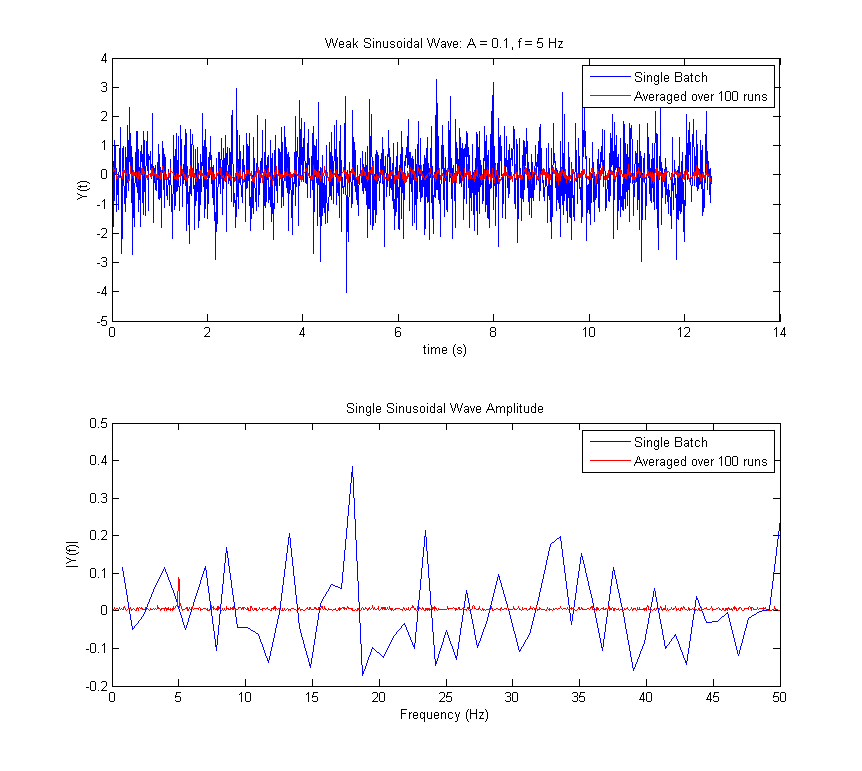
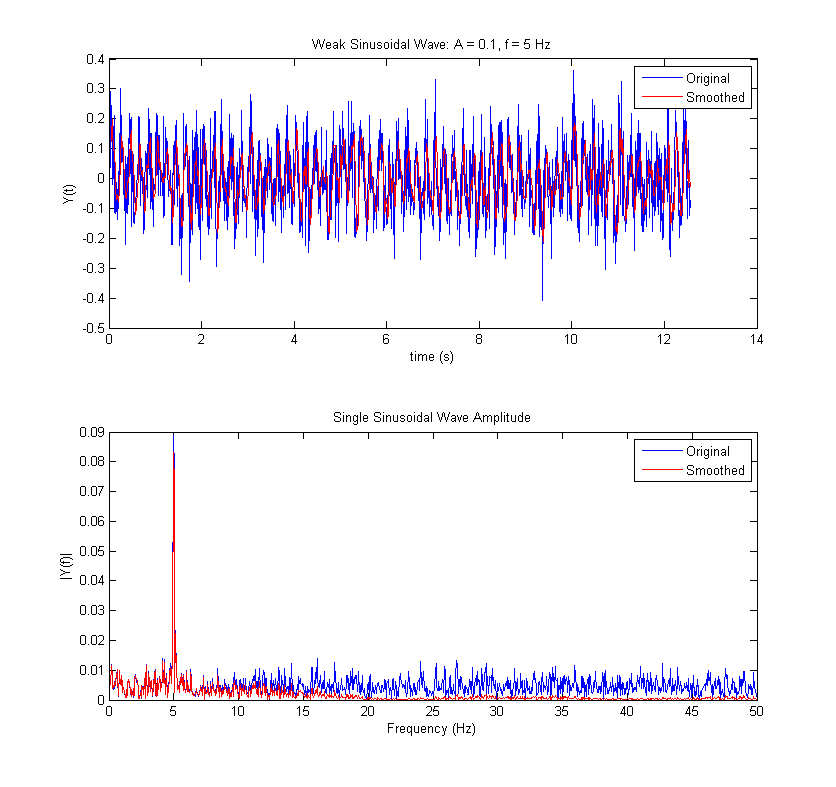
hwk8 update

diff --git a/hwk_8_1.m b/hwk_8_1.m
@@ -15,32 +15,41 @@ for j=1:size(t,2)
     y_m(j) = mean(y(j,:));
 end
 
+% Conduct FFT on raw data
+Fs = t(2)-t(1);% Sampling frequency
+L = size(y_m,2); % Length of signal
+NFFT = 2^nextpow2(L); % Next power of 2 from length of array
+ft = fft(y_m-mean(y_m),NFFT)/L;
+ft_p = 1/Fs*[0:1/NFFT:1/2];
+
+% Smooth periodiogram using filter function
+y_s = filter([0.15 0.24 0.25 0.2 0.18],1,y_m);
+y_s=y_s(6:end);
+
+% Conduct FFT on smoothed data
+L_s = size(y_s,2); % Length of signal
+NFFT_s = 2^nextpow2(L_s); % Next power of 2 from length of array
+ft_s = fft(y_s-mean(y_s),NFFT_s)/L_s;
+ft_p_s = 1/Fs*[0:1/NFFT_s:1/2];
+
+% Display results
 figure(1);
 subplot(2,1,1);
-plot(t,y(:,1),'-b',t,y_m,'r');
+plot(t,y_m,'b',t(6:end),y_s,'r');
 title('Weak Sinusoidal Wave: A = 0.1, f = 5 Hz')
 xlabel('time (s)')
 ylabel('Y(t)')
-legend('Single Batch','Averaged over 100 runs');
-
-% Conduct FFT on data
-Fs = t(2)-t(1);% Sampling frequency
-L1 = size(y,2); % Length of signal
-NFFT1 = 2^nextpow2(L1); % Next power of 2 from length of array
-ft_1 = fft(y(:,1)-mean(y(:,1)),NFFT1)/L1;
-ft_p_1 = 1/Fs*[0:1/NFFT1:1/2];
-
-L2 = size(y_m,2); % Length of signal
-NFFT2 = 2^nextpow2(L2); % Next power of 2 from length of array
-ft_2 = fft(y_m-mean(y_m),NFFT2)/L2;
-ft_p_2 = 1/Fs*[0:1/NFFT2:1/2];
+legend('Original','Smoothed');
 
 figure(1);
 subplot(2,1,2);
-plot(ft_p_1(2:end),2*abs(ft_1(2:NFFT1/2+1))-mean(2*abs(ft_1(2:NFFT1/2+1))),'b',ft_p_2(2:end),2*abs(ft_2(2:NFFT2/2+1)),'r') 
+plot(ft_p(2:end),2*abs(ft(2:NFFT/2+1)),'b')
+hold on;
+plot(ft_p_s(2:end),2*abs(ft_s(2:NFFT_s/2+1)),'r') 
 title('Single Sinusoidal Wave Amplitude')
 xlabel('Frequency (Hz)')
 ylabel('|Y(f)|')
-legend('Single Batch','Averaged over 100 runs');
+legend('Original','Smoothed');
+hold off;
 
 
